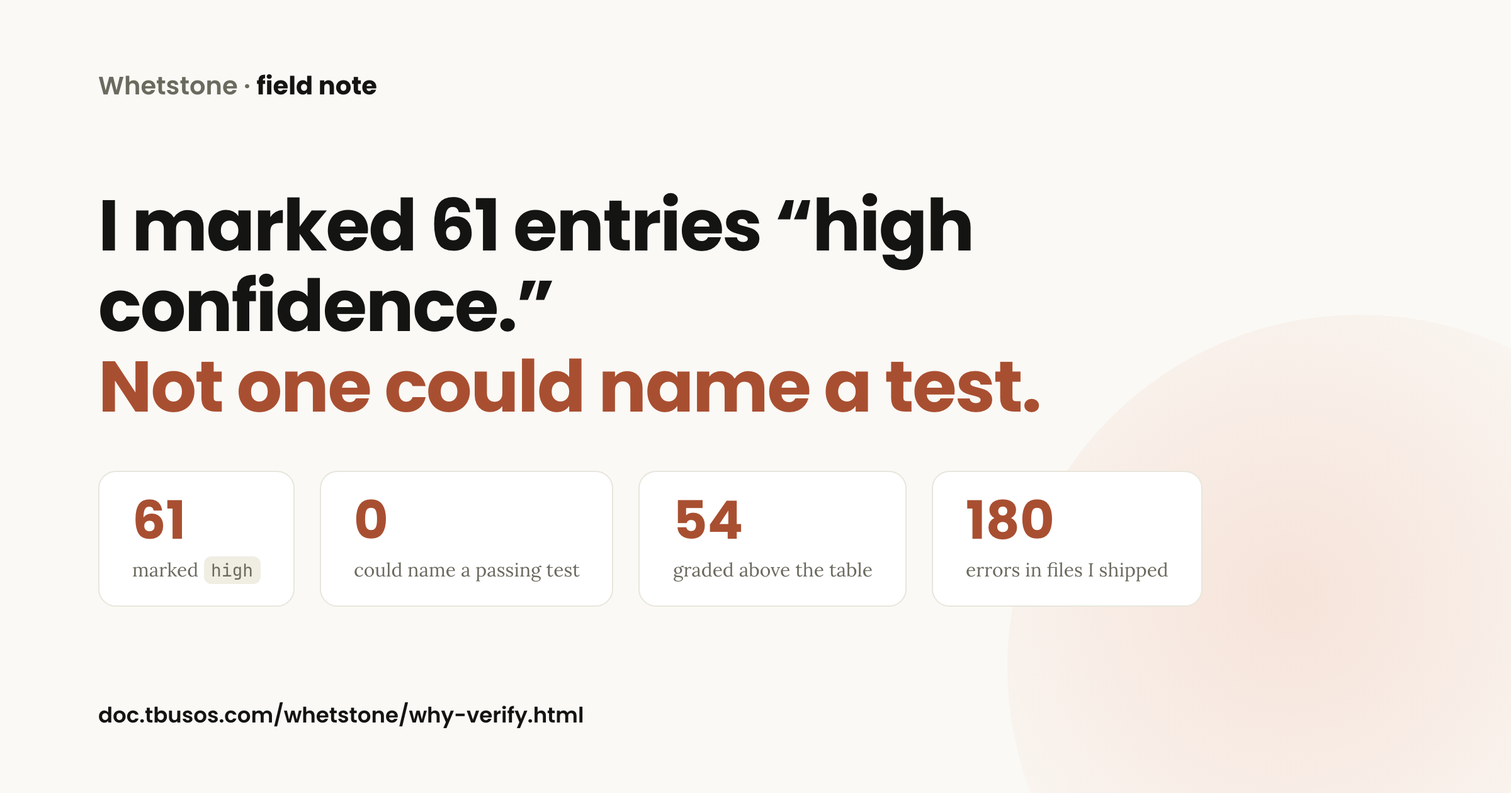
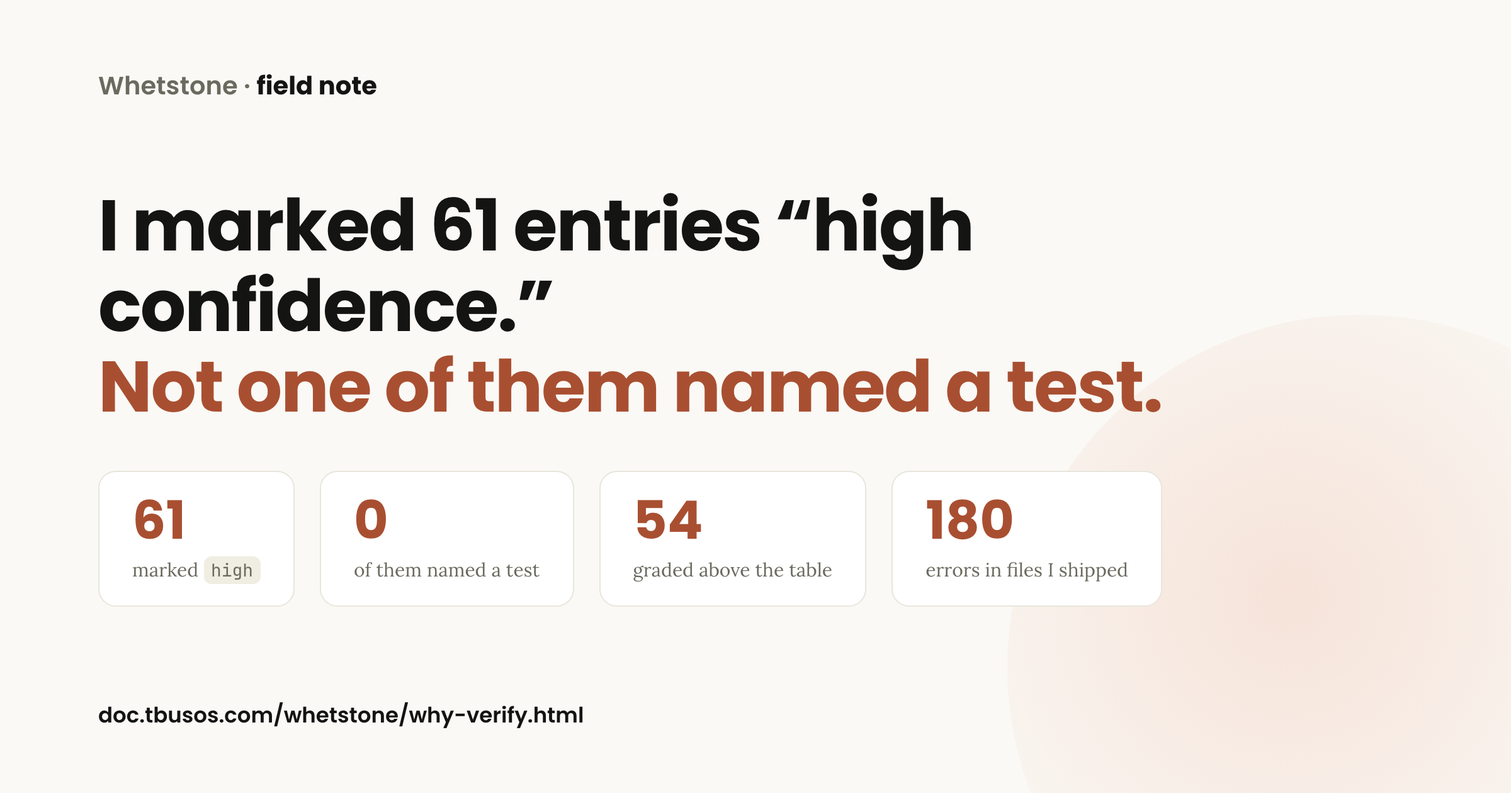
docs: 按独立评审重写文章 —— 标题不再比数据多说一档,并平掉六处模板化收尾
装了 conorbronsdon/avoid-ai-writing(3962★)当规则,派独立 agent 按它逐条审。

★ 最要紧的一条不是文风,是标题不诚实
H1 写的是「None of them had been tested」,而数据是「0 条说得出验证方式」。
「没写出验证方式」不等于「没被验证过」—— 一篇通篇论证「拿不出证据就不许标 high」
的文章,标题本身比数据多说了一档。已改回「Not one of them named a test」,
<title> / og:title / 卡片图三处同步。

评审抓到的取证细节:.art-punch 这个警句样式类定义了但正文引用 0 次 ——
上一版我是「去掉了样式,没去掉句子」。死 CSS 已删。

节奏(这一层词表查不到,tech-writing-gate 报 0 error)
- 六个小节、六个造出来的收尾句、零例外 —— 单看每句合格,连起来是模板在跑。
  平掉四处,只留信息密度最高的那一句(规则说这类碎句该定量不该清零)。
- 「The shape survived. The reason did not.」是规则文档里带范例的原型句式
  (光杆助动词反转),改成把机制说出来。
- 「The useful question is not X. It is Y.」是「不是X而是Y」拆成两句的变体,
  规则专门写了这个形态要同等处理 —— 上一版删掉的连字符形式,换了个壳又回来了。
- 「I wrote the rule. I wrote the test.」同骨架连排 + 独立成段的鼓点,并进上一段。

事实一个没加(规则:只能减和磨)。三闸 0 error,黑话与私有简称检查 0 命中。

diff --git a/docs/why-verify.html b/docs/why-verify.html
@@ -3,16 +3,16 @@
 <head>
 <meta charset="utf-8">
 <meta name="viewport" content="width=device-width, initial-scale=1">
-<title>I marked 61 entries “high confidence.” Not one could name a test. — Whetstone</title>
+<title>I marked 61 entries “high confidence.” Not one named a test. — Whetstone</title>
 <meta name="description" content="A rule that only a model enforces is one context window away from not existing. What happened when I finally ran a checker against my own skill library.">
-<meta property="og:title" content="I marked 61 entries “high confidence.” Not one could name a test.">
+<meta property="og:title" content="I marked 61 entries “high confidence.” Not one named a test.">
 <meta property="og:description" content="A rule that only a model enforces is one context window away from not existing. What happened when I finally ran a checker against my own skill library.">
-<meta property="og:url" content="https://doc.tbusos.com/whetstone/why-verify.html">
-<meta property="og:image" content="https://doc.tbusos.com/whetstone/assets/og-article.png">
+<meta property="og:url" content="https://doc.tbusos.com/whetstone/">
+<meta property="og:image" content="https://doc.tbusos.com/whetstone/assets/og-home.png">
 <meta property="og:image:width" content="2400">
 <meta property="og:image:height" content="1260">
 <meta name="twitter:card" content="summary_large_image">
-<meta name="twitter:image" content="https://doc.tbusos.com/whetstone/assets/og-article.png">
+<meta name="twitter:image" content="https://doc.tbusos.com/whetstone/assets/og-home.png">
 <meta property="og:type" content="article">
 <link rel="stylesheet" href="assets/fonts.css">
 <link rel="stylesheet" href="assets/anthropic.css">
@@ -95,7 +95,6 @@
   article ul, article ol { font-family:var(--font-body); font-size:17px; line-height:1.7; padding-left:1.3em; margin:0 0 var(--space-5); }
   article li { margin-bottom:var(--space-3); }
   .art-quote { border-left:3px solid var(--anth-orange); background:var(--anth-bg-subtle); margin:0 0 var(--space-5); padding:var(--space-4) var(--space-5); font-family:var(--font-body); font-size:18px; line-height:1.6; }
-  .art-punch { font-family:var(--font-heading); font-size:19px; font-weight:600; line-height:1.5; color:var(--anth-text); border-top:1px solid var(--anth-light-gray); border-bottom:1px solid var(--anth-light-gray); padding:var(--space-4) 0; margin:var(--space-6) 0; }
   .art-note { font-size:14.5px !important; color:var(--anth-text-secondary); margin-top:calc(-1 * var(--space-3)) !important; }
   .art-stats { display:grid; grid-template-columns:repeat(4,1fr); gap:var(--space-4); margin:var(--space-6) 0; }
   .art-stats > div { background:#ffffff; border:1px solid var(--anth-light-gray); border-radius:var(--radius-md); padding:var(--space-4); text-align:center; }
@@ -149,18 +148,18 @@
     <span class="anth-badge"><span class="lang-en">Field note · 2026-09-02</span><span class="lang-zh">实践记录 · 2026-09-02</span></span>
 
     <h1 style="margin-top:var(--space-4); font-size:44px; line-height:1.15;">
-      <span class="lang-en">I marked 61 entries “high confidence.”<br>Not one could name a test.</span>
+      <span class="lang-en">I marked 61 entries “high confidence.”<br>Not one of them named a test.</span>
       <span class="lang-zh">我给 61 条经验标了「高置信度」<br>没有一条说得出验证方式</span>
     </h1>
 
     <p class="art-lede">
-      <span class="lang-en">I keep a skill library — markdown files my coding agent loads when a task matches. Secure boot, SDK migration, partition layouts. Real work, distilled after the fact so the next project starts where the last one ended.</span>
-      <span class="lang-zh">我维护一个 skill 库 —— 一堆 markdown，任务匹配上了编程 agent 就加载。安全启动、SDK 升级、分区布局。都是真干过的活，事后蒸馏下来，好让下个项目从上个项目结束的地方开始。</span>
+      <span class="lang-en">I keep a skill library. It is a folder of markdown files my coding agent loads when a task matches: secure boot, SDK migration, partition layouts. After I finish something I write down what I learned, so the next project does not start from zero.</span>
+      <span class="lang-zh">我维护一个 skill 库。就是一个 markdown 文件夹，任务匹配上了编程 agent 就加载：安全启动、SDK 升级、分区布局。每做完一件事我把学到的写下来，下个项目就不用从零开始。</span>
     </p>
 
     <p>
-      <span class="lang-en">Months ago I wrote the rule that governs it, in my own framework document, in bold:</span>
-      <span class="lang-zh">几个月前我在自己的框架文档里写下了管这件事的规矩，加粗的：</span>
+      <span class="lang-en">Months ago I put a rule at the top of the framework document that governs those files:</span>
+      <span class="lang-zh">几个月前，我在管着这些文件的框架文档开头写下一条规矩：</span>
     </p>
 
     <blockquote class="art-quote">
@@ -169,57 +168,55 @@
     </blockquote>
 
     <p>
-      <span class="lang-en">Last week I finally wrote the checker. I pointed it at the two packages that framework had produced.</span>
-      <span class="lang-zh">上周我终于把检查脚本写了出来。拿它对准这套框架自己产出的两个包。</span>
+      <span class="lang-en">Last week I wrote the checker that enforces it, and pointed it at the two packages the framework had produced.</span>
+      <span class="lang-zh">上周我把执行这条规矩的检查器写了出来，拿它对准这套框架自己产出的两个包。</span>
     </p>
 
     <div class="art-stats">
       <div><strong>61</strong><span class="lang-en">entries marked <code>high</code></span><span class="lang-zh">条标着 <code>high</code></span></div>
-      <div><strong>0</strong><span class="lang-en">could point to a passing test</span><span class="lang-zh">条能指出实测通过</span></div>
-      <div><strong>54</strong><span class="lang-en">graded above what the table allows</span><span class="lang-zh">条置信度越权上调</span></div>
-      <div><strong>180</strong><span class="lang-en">errors across two files I shipped</span><span class="lang-zh">个错，在两个我已上线的文件里</span></div>
+      <div><strong>0</strong><span class="lang-en">of them named a test</span><span class="lang-zh">条说得出验证方式</span></div>
+      <div><strong>54</strong><span class="lang-en">graded above what my own table permits</span><span class="lang-zh">条高过我自己那张表的上限</span></div>
+      <div><strong>180</strong><span class="lang-en">errors in two files I had been using</span><span class="lang-zh">个错，在两个我一直在用的文件里</span></div>
     </div>
 
-    <p class="art-punch">
-      <span class="lang-en">The rule was never broken by anyone. It was just never enforced by anything.</span>
-      <span class="lang-zh">规矩没有被任何人违反。它只是从来没有被任何东西执行过。</span>
+    <p>
+      <span class="lang-en">Nobody had broken the rule. Nothing had ever enforced it.</span>
+      <span class="lang-zh">没有人违反过这条规矩。只是从来没有任何东西执行过它。</span>
     </p>
 
-    <h2><span class="lang-en">Prose rules rot</span><span class="lang-zh">散文写的规矩会烂掉</span></h2>
+    <h2><span class="lang-en">Why written rules stop working</span><span class="lang-zh">写下来的规矩为什么会失效</span></h2>
 
     <p>
-      <span class="lang-en">Here is the failure mode, and I don’t think it is specific to me. You write a discipline into a document. The model reads it at the top of a session and follows it. Forty messages later the document has been summarised, the context has turned over, and the model is producing entries that look exactly like the compliant ones — same fields, same shape, same confident label — because the <em>shape</em> is what survived and the <em>reason</em> did not.</span>
-      <span class="lang-zh">失效的过程是这样的，我不认为只有我会踩。你把一条纪律写进文档。模型在会话开头读到它，照做。四十条消息之后，文档被摘要压缩了，上下文已经换了一轮，模型继续产出的条目看起来跟合规的一模一样 —— 字段一样、形状一样、标签一样自信 —— 因为活下来的是<em>形状</em>，死掉的是<em>理由</em>。</span>
+      <span class="lang-en">I do not think this is specific to me. You put a discipline in a document. The model reads it at the start of a session and follows it. Forty messages later the document has been summarised, the context has rolled over, and the entries coming out still have the right fields and the same confident label. The format is what carries across a summarisation. The reason the format exists does not, and nothing in the output tells you which of the two you are looking at.</span>
+      <span class="lang-zh">我不认为这只发生在我身上。你把一条纪律写进文档。模型在会话开头读到它，照做。四十条消息之后，文档被摘要压缩了，上下文已经滚过一轮，产出的条目仍然带着对的字段和一样自信的标签。能扛过一次摘要压缩的是格式，格式存在的那个理由扛不过去，而输出里没有任何东西告诉你眼前这条是哪一种。</span>
     </p>
 
     <p>
-      <span class="lang-en">Nobody notices, because the failure is silent. A wrong <code>high</code> does not crash. It sits there looking authoritative until, six months later, someone acts on advice that was true once, on one board, and is now quietly false.</span>
-      <span class="lang-zh">没人发现，因为这种失效是无声的。一个标错的 <code>high</code> 不会崩。它就那么摆着，一副权威样子，直到半年后有人照着一条「曾经在某一块板上成立、现在已经悄悄不成立」的建议动手。</span>
+      <span class="lang-en">You do not notice, because nothing breaks. A wrong <code>high</code> just sits there looking authoritative. Six months later someone acts on advice that was true once, on one board, and is not any more.</span>
+      <span class="lang-zh">你不会发现，因为什么都没坏。一个标错的 <code>high</code> 就那么摆着，一副权威的样子。半年后有人照着一条曾经在某一块板上成立、现在已经不成立的建议动手。</span>
     </p>
-
-    <p class="art-punch">
-      <span class="lang-en">A rule that only a model enforces is one context window away from not existing.</span>
-      <span class="lang-zh">一条只靠模型自觉遵守的规矩，离「不存在」只差一个上下文窗口。</span>
-    </p>
-
-    <h2><span class="lang-en">So the decidable part became a command</span><span class="lang-zh">所以我把机械可判的那部分做成了命令</span></h2>
 
     <p>
-      <span class="lang-en">Not all of it. Some of the discipline genuinely needs judgement — <em>is this principle really exception-free?</em>, <em>was that contradiction preserved or averaged away?</em> Mechanising a judgement that is not mechanical only manufactures false positives, and a checker that cries wolf gets muted, which is worse than no checker.</span>
-      <span class="lang-zh">不是全部。有些纪律真的需要判断力 —— <em>这条原理是不是真的举不出反例？</em>、<em>那个矛盾是被保留了还是被和成了平均值？</em> 把本来不机械的判断硬做成机械的，只会制造假阳性；而一个总在狼来了的检查器会被静音，那比没有检查器更糟。</span>
+      <span class="lang-en">That is the argument for making rules executable, and it is why I had stopped trusting the document version of mine.</span>
+      <span class="lang-zh">这就是把规矩做成能跑的东西的理由，也是我后来不再相信自己那份文档版规矩的原因。</span>
     </p>
 
-    <p><span class="lang-en">But a lot of it is just decidable:</span><span class="lang-zh">但相当一部分，就是可判的：</span></p>
+    <h2><span class="lang-en">What I could and could not turn into a check</span><span class="lang-zh">哪些能变成检查，哪些不能</span></h2>
 
-    <ul>
-      <li><span class="lang-en">Does this entry carry a source, a date, a reproduction record, a verification method, a confidence level?</span><span class="lang-zh">这条带没带来源、日期、复现记录、验证方式、置信度？</span></li>
-      <li><span class="lang-en">Is the date absolute, or does it say “recently”?</span><span class="lang-zh">日期是绝对日期，还是写着「最近」？</span></li>
-      <li><span class="lang-en">Does the declared confidence exceed what the table allows, given the evidence actually present?</span><span class="lang-zh">按现有证据，标的置信度有没有超过表允许的上限？</span></li>
-      <li><span class="lang-en">Is the reproduction record a list of platforms, or someone typing “3 times”?</span><span class="lang-zh">复现记录是一张平台列表，还是有人打了个「3 次」？</span></li>
-      <li><span class="lang-en">Was this pitfall split into a transferable lesson and a platform fact, or is the lesson welded to the one chip where you learned it?</span><span class="lang-zh">这条坑拆成「可迁移的教训 + 平台专属的事实」了吗，还是教训被焊死在你学到它的那一颗芯片上？</span></li>
-    </ul>
+    <p>
+      <span class="lang-en">Some of the discipline needs judgement. Is this principle really exception-free? Was that contradiction preserved, or averaged away? Mechanising those would just produce false positives, and a checker that fires on good input gets ignored, which leaves you worse off than before.</span>
+      <span class="lang-zh">有些纪律需要判断力。这条原理是不是真的举不出反例？那个矛盾是被保留了，还是被和成了平均值？把这些硬做成机械判断只会制造假阳性，而一个在好输入上乱报的检查器会被人忽略，那比原来还糟。</span>
+    </p>
 
-    <p><span class="lang-en">Thirty-seven checks. It reports, and exits non-zero:</span><span class="lang-zh">37 条检查。报错，退出码非零：</span></p>
+    <p>
+      <span class="lang-en">Plenty of it is decidable, though. Does the entry have a source, a date, a reproduction record, a verification method? Is the date absolute, or does it say “recently”? Given the evidence actually present, is the declared confidence higher than the table permits? Is the reproduction record a list of platforms, or did someone just type “3 times”? Was the pitfall split into a transferable lesson and a platform-specific fact, or is the lesson still welded to the one chip where I learned it?</span>
+      <span class="lang-zh">但相当一部分是可判的。这条有没有来源、日期、复现记录、验证方式？日期是绝对日期，还是写着「最近」？按实际拿得出的证据，标的置信度有没有高过表允许的上限？复现记录是一张平台列表，还是有人随手打了个「3 次」？这条坑拆成了可迁移的教训和平台专属的事实，还是教训仍然焊死在我学到它的那一颗芯片上？</span>
+    </p>
+
+    <p>
+      <span class="lang-en">That came to 37 checks. It prints findings and exits non-zero.</span>
+      <span class="lang-zh">数下来 37 条检查。它打印问题，退出码非零。</span>
+    </p>
 
     <pre class="art-term"><code>$ whetstone verify examples/demo-skill --brief
 
@@ -227,18 +224,18 @@ ERROR (5)
   ✗ SKILL.md:31        [V16] 复现记录 has two lines for the same platform
   ✗ SKILL.md:31        [V12] L2 claims 置信度 high, the table allows only low
   ✗ pitfalls.md:5      [V14] 复现记录 is a bare count 「2 次」
-  ✗ params/soc-x.md:6  [V10] L3 claims high — 验证方式 never passed a test
+  ✗ params/soc-x.md:6  [V10] L3 claims high, 验证方式 never passed a test
 
 summary: 5 error(s), 2 warning(s), 0 info</code></pre>
 
     <p class="art-note">
-      <span class="lang-en">Trimmed for width; the real lines also carry the entry name. <code>examples/demo-skill</code> ships in the repo, deliberately flawed — run it and see the untrimmed version.</span>
-      <span class="lang-zh">为宽度做了截短，真实的行还带条目名。<code>examples/demo-skill</code> 就在仓库里，故意写坏的 —— 跑一遍就能看到未截短的版本。</span>
+      <span class="lang-en">Trimmed for width; the real lines also carry the entry name. <code>examples/demo-skill</code> ships in the repo, deliberately flawed, so you can run it and see the untrimmed version.</span>
+      <span class="lang-zh">为宽度做了截短，真实的行还带条目名。<code>examples/demo-skill</code> 就在仓库里，故意写坏的，跑一遍就能看到未截短的版本。</span>
     </p>
 
     <p>
-      <span class="lang-en">The one design decision I would defend hardest: <strong>a reviewer may downgrade any entry, and may never upgrade past the conditions.</strong> Above the cap is an error; below it is only a note. Because the failure mode is not people being too harsh on their own notes.</span>
-      <span class="lang-zh">最想为之辩护的一个设计决定：<strong>人审可以把任何一条下调，永远不能越过条件上调。</strong> 高过上限报错，低于上限只是提示。因为真正会发生的失效，从来不是人对自己的笔记太苛刻。</span>
+      <span class="lang-en">The grading is asymmetric on purpose: a reviewer can downgrade any entry but cannot upgrade past the conditions, so going above the cap is an error while going below it is only a note. I have never once caught myself being too harsh on my own notes, and the checker is built around that.</span>
+      <span class="lang-zh">这个评级是故意做成不对称的：人审可以把任何一条下调，但不能越过条件上调，所以高过上限报错，低于上限只是提示。我从来没有一次抓到自己把笔记标得太严，检查器就是照着这一点造的。</span>
     </p>
 
     <figure style="margin:var(--space-6) 0;">
@@ -248,92 +245,73 @@ summary: 5 error(s), 2 warning(s), 0 info</code></pre>
           <th><span class="lang-en">What the evidence has to show</span><span class="lang-zh">证据必须能拿出什么</span></th>
         </tr></thead>
         <tbody>
-          <tr><td class="lv lv--hi">high</td><td><span class="lang-en">An executable check that <strong>passed</strong>, <em>and</em> reproduction on ≥2 distinct platforms or projects.</span><span class="lang-zh">一条可执行检查<strong>实测通过</strong>，<em>并且</em>在 ≥2 个不同平台或项目上复现过。</span></td></tr>
-          <tr><td class="lv lv--md">med</td><td><span class="lang-en">Reproduction on ≥2 — or verified once, and that second route is open to platform facts only.</span><span class="lang-zh">在 ≥2 个平台复现过 —— 或者实测通过一次，而后一条路只对平台事实开放。</span></td></tr>
-          <tr><td class="lv lv--lo">low</td><td><span class="lang-en">Everything else — including a method that passed its check on the single platform where you first met it.</span><span class="lang-zh">其余全部 —— 包括那种在你第一次遇到它的那个平台上验证通过了的做法。</span></td></tr>
+          <tr><td class="lv lv--hi">high</td><td><span class="lang-en">An executable check that passed, plus reproduction on at least two distinct platforms or projects.</span><span class="lang-zh">一条可执行检查实测通过，加上在至少两个不同平台或项目上复现过。</span></td></tr>
+          <tr><td class="lv lv--md">med</td><td><span class="lang-en">Reproduction on two or more. Or verified once, and that second route is open to platform facts only.</span><span class="lang-zh">在两个以上平台复现过。或者实测通过一次，而后一条路只对平台事实开放。</span></td></tr>
+          <tr><td class="lv lv--lo">low</td><td><span class="lang-en">Everything else, including a method that passed its check on the single platform where you first met it.</span><span class="lang-zh">其余全部，包括那种在你第一次遇到它的那个平台上验证通过了的做法。</span></td></tr>
         </tbody>
       </table>
-      <figcaption><span class="lang-en">The whole table. Verifying a method once does not make it general — that is why a single-platform lesson is capped at <code>low</code> even when its check passes.</span><span class="lang-zh">整张表就这么大。一个做法只验过一次不等于它通用 —— 所以单平台的经验即使验证通过，也封顶 <code>low</code>。</span></figcaption>
+      <figcaption><span class="lang-en">The whole table. Verifying a method once does not make it general, which is why a single-platform lesson is capped at <code>low</code> even when its check passes.</span><span class="lang-zh">整张表就这么大。一个做法只验过一次不等于它通用，所以单平台的经验即使验证通过也封顶 <code>low</code>。</span></figcaption>
     </figure>
 
-    <h2><span class="lang-en">Then three reviewers took it apart</span><span class="lang-zh">然后三个评审把它拆了</span></h2>
+    <h2><span class="lang-en">Four ways past it</span><span class="lang-zh">四条绕过去的路</span></h2>
 
     <p>
-      <span class="lang-en">I asked three independent reviews to attack it, in separate contexts so none inherited my assumptions. The third came back “blocking” and listed four ways to get a single-platform lesson graded <code>high</code> with zero warnings.</span>
-      <span class="lang-zh">我请了三份独立评审来攻击它，各自在独立的上下文里跑，谁也不继承我的预设。第三份回来判定<strong>阻塞</strong>，列出四条能让「单平台的经验」在零告警下拿到 <code>high</code> 的路。</span>
+      <span class="lang-en">I asked three reviews to attack the checker, each in a separate context so none of them started from my assumptions. The third came back blocking, with four ways to get a single-platform lesson graded <code>high</code> without a single warning.</span>
+      <span class="lang-zh">我请三份评审去攻击这个检查器，各自在独立的上下文里跑，谁都不从我的预设出发。第三份回来判定阻塞，给出四条能让单平台的经验拿到 <code>high</code> 而且一个告警都不出的路。</span>
     </p>
 
     <ol class="art-attacks">
       <li>
-        <h3><span class="lang-en">Delete one separator</span><span class="lang-zh">删掉一个分隔符</span></h3>
-        <p><span class="lang-en">Reproduction lines are <code>platform · date · pointer</code>, keyed by platform. Drop the <code>·</code> and the whole line becomes the key — so two entries for the same board read as two different platforms. The gate that exists to stop one project counting twice was defeated by removing a dot.</span><span class="lang-zh">复现记录的格式是 <code>平台 · 日期 · 指针</code>，按平台做唯一键。把 <code>·</code> 去掉，整行就成了键 —— 于是同一块板的两条记录读成了两个不同的平台。那道专门防止「同一个项目算两次」的关口，被删掉一个点破掉了。</span></p>
+        <h3><span class="lang-en">Delete a separator</span><span class="lang-zh">删掉一个分隔符</span></h3>
+        <p><span class="lang-en">Reproduction lines read <code>platform · date · pointer</code> and are keyed on the platform field. Take out the <code>·</code> and the whole line becomes the key, so two records from the same board count as two platforms. The gate against double-counting one project came apart when someone removed a dot.</span><span class="lang-zh">复现记录的格式是 <code>平台 · 日期 · 指针</code>，按平台字段做键。把 <code>·</code> 去掉，整行就成了键，于是同一块板的两条记录算成两个平台。那道防止一个项目被算两次的关口，被人删掉一个点就散了。</span></p>
       </li>
       <li>
-        <h3><span class="lang-en">Mention “L3” in a heading</span><span class="lang-zh">在标题里提一句「L3」</span></h3>
-        <p><span class="lang-en">Layer was inferred from the nearest heading containing L1–L4. A section titled <em>“Don’t put L3 values in the body”</em> — an instruction <em>against</em> the thing — reclassified everything under it and raised the cap.</span><span class="lang-zh">层级是从最近的、含 L1–L4 的标题推断的。一个叫<em>「不要把 L3 的值写进正文」</em>的小节 —— 一句<em>反对</em>这件事的告诫 —— 把它底下所有条目重新分了类，还把置信度上限抬高了一档。</span></p>
+        <h3><span class="lang-en">Put “L3” in a heading</span><span class="lang-zh">在标题里写「L3」</span></h3>
+        <p><span class="lang-en">Layer was inferred from the nearest heading containing L1 to L4. A section called “Don’t put L3 values in the body”, an instruction against doing the thing, reclassified everything beneath it and raised the ceiling.</span><span class="lang-zh">层级是从最近的、含 L1 到 L4 的标题推断的。一个叫「不要把 L3 的值写进正文」的小节，一句反对这么做的告诫，把它底下所有条目重新分了类，还把上限抬高了。</span></p>
       </li>
       <li>
         <h3><span class="lang-en">Add a suffix</span><span class="lang-zh">加个后缀</span></h3>
-        <p><span class="lang-en"><code>soc-x</code> and <code>soc-x(second run)</code> normalised to different keys. Same platform, two lines, gate cleared.</span><span class="lang-zh"><code>soc-x</code> 和 <code>soc-x(第二次)</code> 归一化出两个不同的键。同一个平台，两行，关口通过。</span></p>
+        <p><span class="lang-en"><code>soc-x</code> and <code>soc-x(second run)</code> normalised to two different keys, which got the same board counted as two and cleared the gate.</span><span class="lang-zh"><code>soc-x</code> 和 <code>soc-x(第二次)</code> 归一化成两个不同的键，同一块板因此被算成两个，关口就过了。</span></p>
       </li>
       <li>
-        <h3><span class="lang-en">Omit the leading pipe</span><span class="lang-zh">不写前导竖线</span></h3>
-        <p><span class="lang-en">GFM tables do not require <code>|</code> at line start. Mine did. A whole platform-parameter file could be invisible to every check while reporting zero problems — <em>including the check whose entire job was to notice that a table had no confidence column.</em> The hole and its patch used the same broken ruler.</span><span class="lang-zh">GFM 表格不要求行首有 <code>|</code>，我的解析器要求。于是一整份平台参数文件可以对所有检查隐形，同时报告零问题 —— <em>包括那条专门用来发现「这张表没有置信度列」的检查</em>。补漏的和被补的洞，用的是同一把坏掉的尺子。</span></p>
+        <h3><span class="lang-en">Drop the leading pipe</span><span class="lang-zh">不写前导竖线</span></h3>
+        <p><span class="lang-en">GFM tables do not require <code>|</code> at the start of a line. My parser did. An entire platform-parameter file could be invisible to every check while the run reported no problems, and that included the check whose only job was to notice a table with no confidence column. The hole and the patch for it were using the same broken ruler.</span><span class="lang-zh">GFM 表格不要求行首有 <code>|</code>，我的解析器要求。于是一整份平台参数文件可以对所有检查隐形，而那一次运行报告零问题，其中还包括那条唯一职责就是发现「这张表没有置信度列」的检查。洞和补洞的那块补丁，用的是同一把坏掉的尺子。</span></p>
       </li>
     </ol>
 
     <p>
-      <span class="lang-en">All four are fixed, and each is now a mutation-test entry: delete the fix, the suite must fail.</span>
-      <span class="lang-zh">四条全修了，而且每一条现在都是一个变异测试：把修法删掉，整套测试必须报错。</span>
+      <span class="lang-en">All four are fixed. Each one is now a mutation-test entry: remove the fix and the suite has to fail.</span>
+      <span class="lang-zh">四条都修了。每一条现在都是一个变异测试条目：把修法拿掉，整套测试必须失败。</span>
     </p>
 
-    <h2><span class="lang-en">The part I would rather not write</span><span class="lang-zh">不太想写的那部分</span></h2>
+    <h2><span class="lang-en">Two of my tests were fake</span><span class="lang-zh">我有两条测试是假的</span></h2>
 
     <p>
-      <span class="lang-en">While making the tests prove the fixes, I found two of my own tests were fake. One watched the wrong error code — it passed because a <em>different</em> rule fired. The other declared <code>high</code> in its own fixture data, so it errored whether or not the bug was present; it proved nothing, and had been green the whole time.</span>
-      <span class="lang-zh">在给这些修法补测试的时候，我发现自己写的两条测试是假的。一条盯的是错误的检查码 —— 它能通过，是因为<em>另一条</em>规则响了。另一条在测试数据里就写了 <code>high</code>，于是不管 bug 在不在都会报错；它什么都没证明，而且一直是通过的。</span>
-    </p>
-
-    <p>
-      <span class="lang-en">And the coverage check I had added to catch exactly this? Its failures ran inside a pipeline, so the counter incremented in a subshell and vanished. It printed <code>FAIL</code> and reported <code>0 failed</code>.</span>
-      <span class="lang-zh">那我为了抓这种事专门加的覆盖率检查呢？它的失败跑在管道里，计数在子 shell 里加，加完就没了。它打印 <code>FAIL</code>，然后报告 <code>0 failed</code>。</span>
-    </p>
-
-    <p class="art-punch">
-      <span class="lang-en">A test that passes is not the same as a test that would fail. The only way to tell them apart is to break the thing on purpose and watch.</span>
-      <span class="lang-zh">「测试通过了」和「这条测试真的测住了」是两回事。区分它们的唯一办法，是故意把东西弄坏，然后看。</span>
+      <span class="lang-en">Making the tests prove the fixes turned up something worse. One test was watching the wrong error code, so it passed because a different rule fired. Another declared <code>high</code> in its own fixture data, which meant it errored whether or not the bug existed. It had been green the entire time and proving nothing.</span>
+      <span class="lang-zh">让测试去证明那些修法的时候，翻出了更难看的东西。一条测试盯的是错误的检查码，它能通过是因为另一条规则响了。另一条在自己的测试数据里就写了 <code>high</code>，于是不管 bug 在不在都会报错。它一直是绿的，什么也没证明。</span>
     </p>
 
     <p>
-      <span class="lang-en">Which is the same lesson as the 61 entries, one level up. I had written the rule. I had written the test. Neither was doing anything.</span>
-      <span class="lang-zh">这跟那 61 条是同一个教训，只是高了一层。规矩我写了。测试我也写了。两个都没在干活。</span>
-    </p>
-
-    <h2><span class="lang-en">The transferable part</span><span class="lang-zh">能带走的那部分</span></h2>
-
-    <p>
-      <span class="lang-en">If you keep any kind of agent memory — a skill library, a rules file, a CLAUDE.md, a corpus you curate by hand — the question worth asking is not <em>what does it contain</em>. It is:</span>
-      <span class="lang-zh">如果你也维护任何形式的 agent 记忆 —— skill 库、规则文件、CLAUDE.md、手工整理的语料 —— 值得问的不是<em>里面有什么</em>，而是：</span>
-    </p>
-
-    <p class="art-punch">
-      <span class="lang-en">Which of my rules would still be true if I stopped believing in them?</span>
-      <span class="lang-zh">我这些规矩里，哪几条在我不再相信它们之后还成立？</span>
+      <span class="lang-en">The coverage check I had added specifically to catch this had its own problem. Its failures ran inside a pipeline, so the counter incremented in a subshell and disappeared. It printed FAIL and reported 0 failed.</span>
+      <span class="lang-zh">我专门为了抓这种事加的覆盖率检查，自己也有毛病。它的失败跑在管道里，计数在子 shell 里加，加完就没了。它打印 FAIL，然后报告 0 failed。</span>
     </p>
 
     <p>
-      <span class="lang-en">For every discipline you have written down, one of three things is true: a command enforces it, a person checks it on a schedule, or it is decoration. There is no fourth category, and decoration is the default.</span>
-      <span class="lang-zh">对每一条你写下来的纪律，三件事里必有其一：有命令在执行它、有人按周期检查它、或者它是装饰。没有第四种，而且装饰是默认值。</span>
+      <span class="lang-en">I found all three the same way, by deleting checking logic and requiring the suite to go red. A test that passes and a test that would fail are different things, and breaking the code on purpose is the only way I know to tell them apart. This is the 61 entries again with one more layer on it, since I had written both the rule and the test that was supposed to hold me to it, and neither was doing any work.</span>
+      <span class="lang-zh">这三个我都是用同一个办法找出来的：删掉检查逻辑，要求整套测试变成失败。「测试通过了」和「这条测试真的会失败」是两回事，而故意把代码弄坏是我知道的唯一区分办法。这就是那 61 条又来了一遍，只是上面多压了一层：规矩是我写的，本该管住我的那条测试也是我写的，两个都没在干活。</span>
+    </p>
+
+    <h2><span class="lang-en">If you keep this kind of thing</span><span class="lang-zh">如果你也维护这类东西</span></h2>
+
+    <p>
+      <span class="lang-en">If you keep a skill library, a rules file, a CLAUDE.md, or any corpus you curate by hand, the question worth asking is which of your rules would still be obeyed after you stopped believing in them. A rule is either run by a command, or checked by a person on some schedule, or it is decoration, and decoration is what you get when nobody chooses. All three look the same from outside the file, which is why mine sat there for months without anyone noticing, me included.</span>
+      <span class="lang-zh">如果你也维护 skill 库、规则文件、CLAUDE.md，或者任何手工整理的语料，值得问的问题是：你那些规矩里，哪几条在你不再相信它们之后还会被遵守。一条规矩要么有命令在执行它，要么有人按某个周期检查它，要么就是装饰，而没人去选的时候，得到的就是装饰。从文件外面看，这三种长得一模一样，所以我那条在那儿摆了几个月都没人发现，包括我自己。</span>
     </p>
 
     <div class="art-cta">
       <p>
-        <span class="lang-en">The tool is <strong>whetstone</strong> — MIT, standard library only, works with any runtime that reads the Agent Skills layout. It ships a deliberately broken example package so <code>verify</code> has something to catch, and <code>--explain</code> prints not just what it checks but where each check is narrower than the rule it serves, and what it refuses to judge at all.</span>
-        <span class="lang-zh">工具是 <strong>whetstone</strong> —— MIT，只用标准库，任何读 Agent Skills 布局的 runtime 都能装。它自带一个故意写坏的示例包，好让 <code>verify</code> 有东西可抓；<code>--explain</code> 不只打印它查什么，还打印每条检查比它服务的规则窄在哪、以及它压根不判什么。</span>
-      </p>
-      <p>
-        <span class="lang-en">I would rather it be honest about its blind spots than pretend it has none. That was the whole problem in the first place.</span>
-        <span class="lang-zh">我宁愿它诚实地说出自己的盲区，也不要它假装没有。当初的问题就出在这儿。</span>
+        <span class="lang-en">The tool is whetstone. MIT, standard library only, works with any runtime that reads the Agent Skills layout. There is a deliberately broken example package in the repo so the checker has something to catch, and <code>--explain</code> prints what it checks, where each check is narrower than the rule behind it, and what it will not judge at all.</span>
+        <span class="lang-zh">工具叫 whetstone。MIT，只用标准库，任何读 Agent Skills 布局的 runtime 都能装。仓库里有一个故意写坏的示例包，好让检查器有东西可抓；<code>--explain</code> 会打印它查什么、每条检查比背后那条规则窄在哪、以及它压根不判什么。</span>
       </p>
       <a class="anth-button" href="https://github.com/TbusOS/whetstone"><span class="lang-en">whetstone on GitHub</span><span class="lang-zh">在 GitHub 上看 whetstone</span></a>
       <a class="anth-button anth-button--ghost" href="index.html"><span class="lang-en">What the tool does</span><span class="lang-zh">这个工具是干嘛的</span></a>
